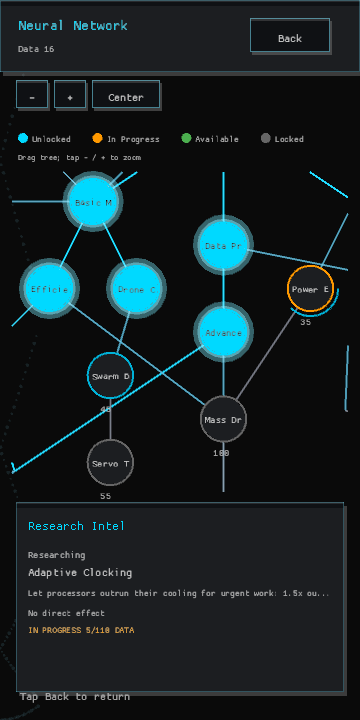
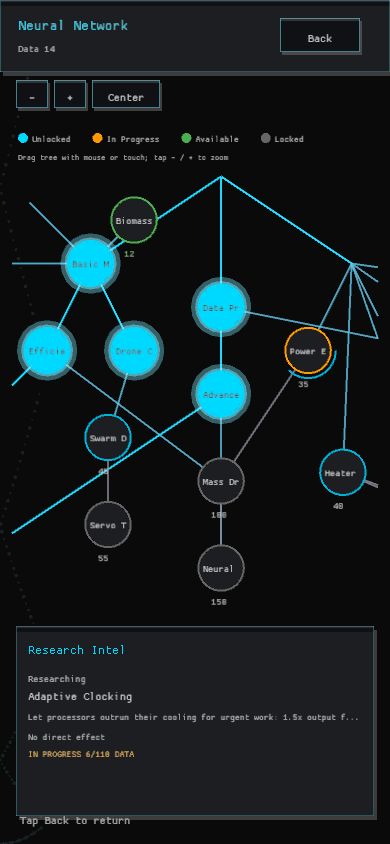
The neural tree follows the swarm's finger (touch research panning, UI)
On compact research screens, the visible instruction promised a draggable neural tree, but the implementation only polled the mouse. Route viewport movement through shared Pointer state so touch and mouse panning use the same logical coordinates.

A press-origin guard keeps a gesture that begins on zoom or navigation controls from stealing their release. drag_distance still suppresses node activation after a real pan, while a tap remains a tap. Added isolated tests for touch deltas and out-of-bounds gesture origin, refreshed desktop/mobile captures, and verified with cargo test, clippy, and publish.ps1.

diff --git a/src/screens/research_view/compact.rs b/src/screens/research_view/compact.rs
@@ -55,21 +55,38 @@ pub(super) fn parked_research_status(
 }
 
 pub(super) fn update_compact_viewport(viewport: &mut ResearchViewport, tree: Rect) {
-    let mouse = Vec2::from(mouse_position());
-    if is_mouse_button_pressed(MouseButton::Left) && tree.contains(mouse) {
-        viewport.drag_distance = 0.0;
-    }
-    if is_mouse_button_down(MouseButton::Left) && tree.contains(mouse) {
-        let delta = mouse_delta_position();
-        viewport.pan += delta;
-        viewport.drag_distance += delta.length();
-    }
+    let pointer = Pointer::read(|position| position);
+    apply_pointer_drag(viewport, pointer, tree);
     let (_, wheel_y) = mouse_wheel();
-    if wheel_y.abs() > f32::EPSILON && tree.contains(mouse) {
+    if wheel_y.abs() > f32::EPSILON && tree.contains(pointer.position) {
         viewport.zoom = (viewport.zoom + wheel_y.signum() * 0.1).clamp(1.0, 2.4);
     }
     viewport.pan.x = viewport.pan.x.clamp(-tree.w, tree.w);
     viewport.pan.y = viewport.pan.y.clamp(-tree.h * 2.5, tree.h * 2.5);
+}
+
+/// Track a drag from the shared pointer so a finger can pan the same compact
+/// tree as a mouse. A gesture that starts outside the tree never steals a
+/// later release from the surrounding controls.
+fn apply_pointer_drag(viewport: &mut ResearchViewport, pointer: Pointer, tree: Rect) {
+    if !pointer.down {
+        viewport.last_pointer = None;
+        viewport.drag_active = false;
+        return;
+    }
+
+    if viewport.last_pointer.is_none() {
+        viewport.drag_distance = 0.0;
+        viewport.drag_active = tree.contains(pointer.position);
+    }
+    if viewport.drag_active {
+        if let Some(previous) = viewport.last_pointer {
+            let delta = pointer.position - previous;
+            viewport.pan += delta;
+            viewport.drag_distance += delta.length();
+        }
+    }
+    viewport.last_pointer = Some(pointer.position);
 }
 
 pub(super) fn draw_compact_viewport_controls(

diff --git a/src/screens/research_view/compact/tests.rs b/src/screens/research_view/compact/tests.rs
@@ -69,3 +69,57 @@ fn parked_research_status_invites_the_player_to_resume_work() {
     );
     assert!(parked_research_status(&state, "other", &node).is_none());
 }
+
+#[test]
+fn compact_tree_drag_tracks_touch_delta_and_preserves_tap_distance() {
+    let tree = Rect::new(10.0, 20.0, 100.0, 80.0);
+    let mut viewport = ResearchViewport::default();
+    let first = Pointer {
+        position: vec2(30.0, 40.0),
+        down: true,
+        ..Pointer::default()
+    };
+    let second = Pointer {
+        position: vec2(42.0, 47.0),
+        down: true,
+        ..Pointer::default()
+    };
+
+    apply_pointer_drag(&mut viewport, first, tree);
+    apply_pointer_drag(&mut viewport, second, tree);
+
+    assert_eq!(viewport.pan, vec2(12.0, 7.0));
+    assert!((viewport.drag_distance - (12.0_f32 * 12.0 + 7.0 * 7.0).sqrt()).abs() < 0.001);
+
+    apply_pointer_drag(&mut viewport, Pointer::default(), tree);
+    assert!(viewport.last_pointer.is_none());
+    assert!(!viewport.drag_active);
+    assert!(viewport.drag_distance > 0.0);
+}
+
+#[test]
+fn compact_tree_drag_ignores_a_gesture_that_started_outside_the_tree() {
+    let tree = Rect::new(10.0, 20.0, 100.0, 80.0);
+    let mut viewport = ResearchViewport::default();
+    apply_pointer_drag(
+        &mut viewport,
+        Pointer {
+            position: vec2(2.0, 4.0),
+            down: true,
+            ..Pointer::default()
+        },
+        tree,
+    );
+    apply_pointer_drag(
+        &mut viewport,
+        Pointer {
+            position: vec2(42.0, 47.0),
+            down: true,
+            ..Pointer::default()
+        },
+        tree,
+    );
+
+    assert_eq!(viewport.pan, Vec2::ZERO);
+    assert_eq!(viewport.drag_distance, 0.0);
+}

diff --git a/src/screens/research_view.rs b/src/screens/research_view.rs
@@ -31,6 +31,8 @@ pub struct ResearchViewport {
     pan: Vec2,
     zoom: f32,
     drag_distance: f32,
+    last_pointer: Option<Vec2>,
+    drag_active: bool,
 }
 
 impl Default for ResearchViewport {
@@ -39,6 +41,8 @@ impl Default for ResearchViewport {
             pan: Vec2::ZERO,
             zoom: 1.45,
             drag_distance: 0.0,
+            last_pointer: None,
+            drag_active: false,
         }
     }
 }
@@ -133,7 +137,7 @@ pub fn render_research_view(context: ResearchViewContext<'_>) -> ResearchAction 
         if screen_w < 600.0 {
             draw_compact_legend(18.0, HEADER_HEIGHT + 70.0);
             draw_ui_text(
-                "Drag tree; tap - / + to zoom",
+                "Drag tree with mouse or touch; tap - / + to zoom",
                 18.0,
                 HEADER_HEIGHT + 88.0,
                 10.0,
@@ -142,7 +146,7 @@ pub fn render_research_view(context: ResearchViewContext<'_>) -> ResearchAction 
         } else {
             draw_compact_legend(18.0, HEADER_HEIGHT + 22.0);
             draw_ui_text(
-                "Drag tree; tap - / + to zoom",
+                "Drag tree with mouse or touch; tap - / + to zoom",
                 screen_w - 390.0,
                 HEADER_HEIGHT + 22.0,
                 11.0,

diff --git a/README.md b/README.md
@@ -98,6 +98,8 @@ After a world change, the mobile header briefly names the arrival as
 On portrait screens, BUILD and INFO open one full-width drawer at a time;
 MAP returns to the live grid between actions.
 Research uses a separate control row and full-width detail drawer on phones;
+drag the neural tree with a mouse or touch to pan it, then tap `-` / `+` to
+zoom;
 the Seed Ship yard compresses each stage into a readable card, keeps the
 diversion control visible, and opens the neural network directly when a stage
   needs research. Tap Back there to return to the yard. The portrait Solar System
